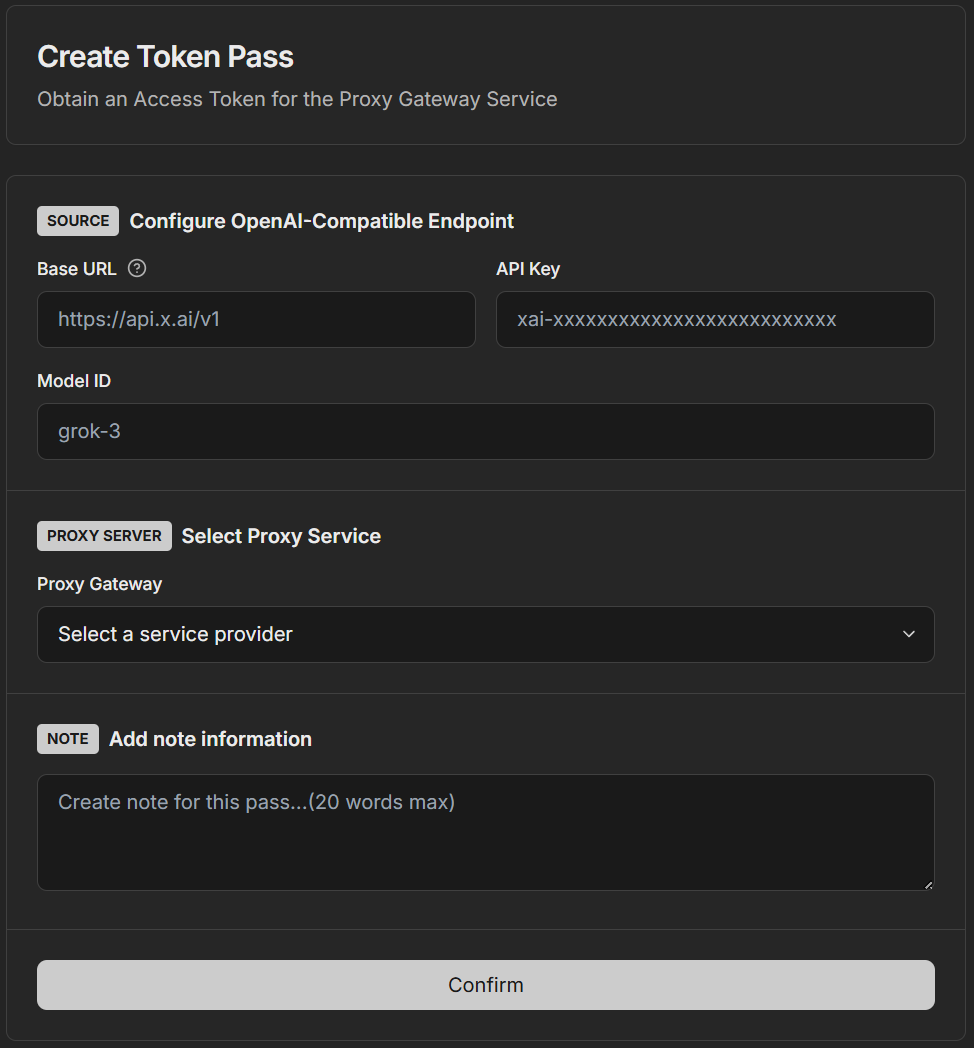
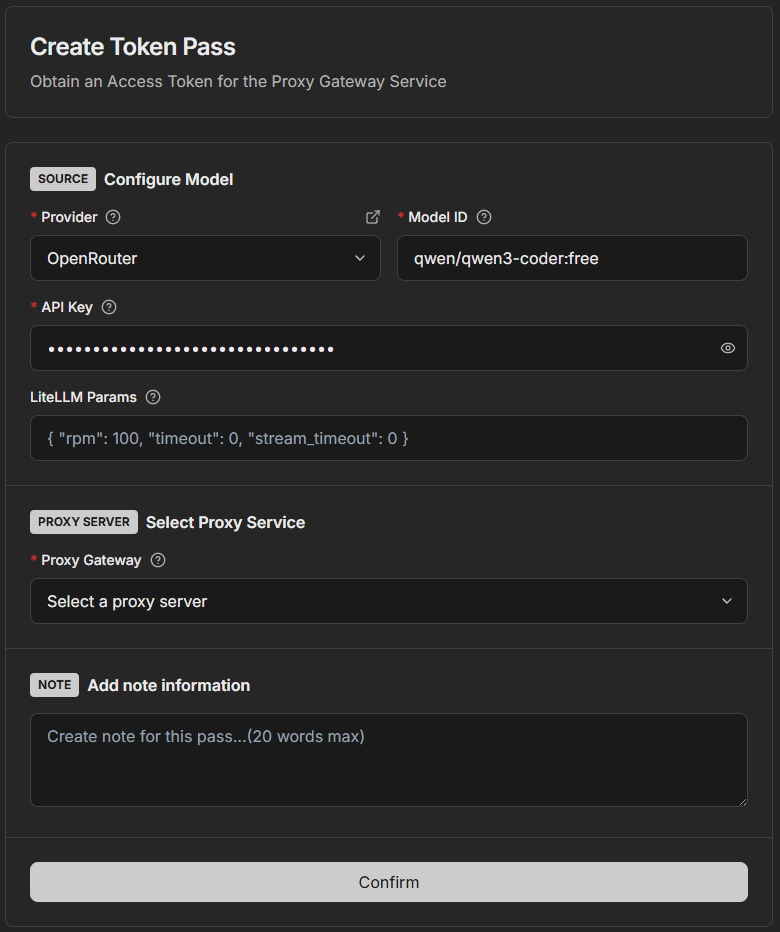
fix: update documentation to reflect recent changes and improve clarity

diff --git a/public/docs/en/DOCUMENTATION.md b/public/docs/en/DOCUMENTATION.md
@@ -1,12 +1,10 @@
 [![GitHub](https://img.shields.io/badge/GitHub-0.7.0-blue?logo=github)](https://github.com/SanChai20/Flexi-Proxy)
 
-*Last updated: September 27, 2025*
+*Last updated: Oct. 13, 2025*
 
 # A. Overview
 
-FlexiProxy is built on LiteLLM to provide an OpenAI-compatible proxy service, enabling access to over 100 large language models (LLMs) through a unified interface. It allows users to seamlessly switch between backend service providers while using existing LLM clients (such as Claude Code), effectively addressing issues where LLM services are costly or unavailable in specific regions.
-
-For users who only hold a single set of OpenAI-compatible API credentials, FlexiProxy also makes it possible to experience different LLM clients via proxy.
+FlexiProxy is a lightweight LLM proxy service built on top of the LiteLLM library. It enables users to access multiple large language models through a unified interface. With FlexiProxy, users can seamlessly switch between different backend providers while using existing LLM clients (such as Claude Code), effectively addressing issues like high costs or limited model availability in certain regions. It also allows users with a single API credential to experience various LLM clients through the same proxy service.
 
 # B. Key Features
 
@@ -15,43 +13,40 @@ For users who only hold a single set of OpenAI-compatible API credentials, Flexi
 
 # C. User Guide
 
-> The proxy backend uses the API information provided by users to perform requests. FlexiProxy itself does not directly provide LLM services; it acts as an intermediary layer to forward requests.
+> The proxy server uses the API information provided by the user to make backend requests. Therefore, FlexiProxy does not directly provide large language model services; instead, it acts as an intermediary layer that forwards requests between the client and the model provider.
 
 ## a. Creating a Token Pass
 
-1. Before creating a token pass, prepare your OpenAI-compatible Base URL and API Key from an existing LLM provider. Examples are listed below (refer to the official documentation for accuracy). Any platform supporting OpenAI-compatible APIs can be used:
+1. Before creating an access token, please prepare your existing LLM provider’s API key and model ID. FlexiProxy currently supports the following providers:
 
-   - [DeepSeek](https://www.deepseek.com/)
-       - Base URL: **https://api.deepseek.com/v1**
-       - API Key: Obtain [here](https://platform.deepseek.com/)
-       - Model IDs: **deepseek-chat**, **deepseek-reasoner**, etc. See [DeepSeek API Documentation](https://api-docs.deepseek.com/) for details
-
+   - [AI/ML API](https://aimlapi.com/)
+   - [Anthropic](https://anthropic.com/)
+   - [Cerebras](https://cerebras.ai/)
+   - [Cohere](https://cohere.com/)
+   - [Databricks (Qwen API)](https://databricks.com/)
    - [DeepInfra](https://deepinfra.com/)
-       - Base URL: **https://api.deepinfra.com/v1/openai**
-       - API Key: Obtain [here](https://deepinfra.com/dash/api_keys)
-       - Model IDs: **openai/gpt-oss-120b**, **zai-org/GLM-4.5**, etc. See [DeepInfra Models](https://deepinfra.com/models) for details
+   - [Deepgram](https://deepgram.com/)
+   - [DeepSeek](https://deepseek.com/)
+   - [Fireworks AI](https://fireworks.ai/)
+   - [Google AI Studio](https://aistudio.google.com/)
+   - [Groq](https://groq.com/)
+   - [Jina AI](https://jina.ai/)
+   - [Mistral AI](https://mistral.ai/)
+   - [OpenRouter](https://openrouter.ai/)
+   - [Oracle Cloud Infrastructure (OCI)](https://oracle.com/cloud/)
+   - [Perplexity](https://perplexity.ai/)
+   - [Sambanova](https://sambanova.ai/)
+   - [Together AI](https://together.ai/)
+   - [VolcEngine](https://volcengine.com/)
+   - [Voyage AI](https://voyageai.com/)
+   - [xAI](https://x.ai/)
 
-   - [Alibaba Qwen](https://bailian.console.aliyun.com/)
-       - Base URL: **https://dashscope.aliyuncs.com/compatible-mode/v1**
-       - API Key: Obtain [here](https://bailian.console.aliyun.com/?tab=model#/api-key)
-       - Model IDs: **qwen3-coder-plus**, **qwen-plus**, etc. See [Model Square](https://bailian.console.aliyun.com/) for details
 
-   - [xAI Grok](https://x.ai/)
-       - Base URL: **https://api.x.ai/v1**
-       - API Key: Obtain [here](https://console.x.ai/team/default/api-keys)
-       - Model IDs: **grok-3**, **grok-4**, etc. See [xAI Documentation](https://docs.x.ai/docs/models) for details
-
-
-2. In the sidebar, select the Management Panel icon. If this is your first time, you will be redirected to the Create Token Pass page. Enter the required information based on the provider details above.
-
-   - **Important**: Your API Key will be used **only for forwarding service requests**.
-   - Select the desired proxy gateway server under **Provider**.
-   - After completing the fields, click **Confirm**.
-
+2. Select and click the **Management Panel** icon in the left sidebar. If this is your first time creating a token, you’ll be automatically redirected to the **Create Token Pass** page. Based on the information above, fill in the **SOURCE** section (**Note: Your provided API key will only be used for service requests**) to configure the model. Then, choose a proxy gateway server under **PROXY SERVER**, and once all fields are completed, click Confirm. The following example demonstrates this process using the OpenRouter provider:
 
     ![](https://flexiproxy.com/screenshots/en/create.PNG)
 
-1. Upon successful creation, a new **Token Pass (API Key)** for the proxy gateway will be generated. You will be redirected to the **Token Management** page, which also displays the **Base URL**. From here, you may add additional token passes.
+3. Upon successful creation, a new **Token Pass (API Key)** for the proxy gateway will be generated. You will be redirected to the **Token Management** page, which also displays the **Base URL**. From here, you may add additional token passes.
    
     ![](https://flexiproxy.com/screenshots/en/manage.PNG)
 
@@ -65,7 +60,7 @@ For users who only hold a single set of OpenAI-compatible API credentials, Flexi
 
 ## b. Client Usage
 
-After token creation, two fields are essential: **Base URL** and **Token Pass**. Below is an example of how to configure them in a commonly used LLM client:
+After creating the token, there are two key fields to note: **Base URL** and **Token Pass**. The following example demonstrates how to use them with Claude Code:
 
 - **Claude Code**
 
